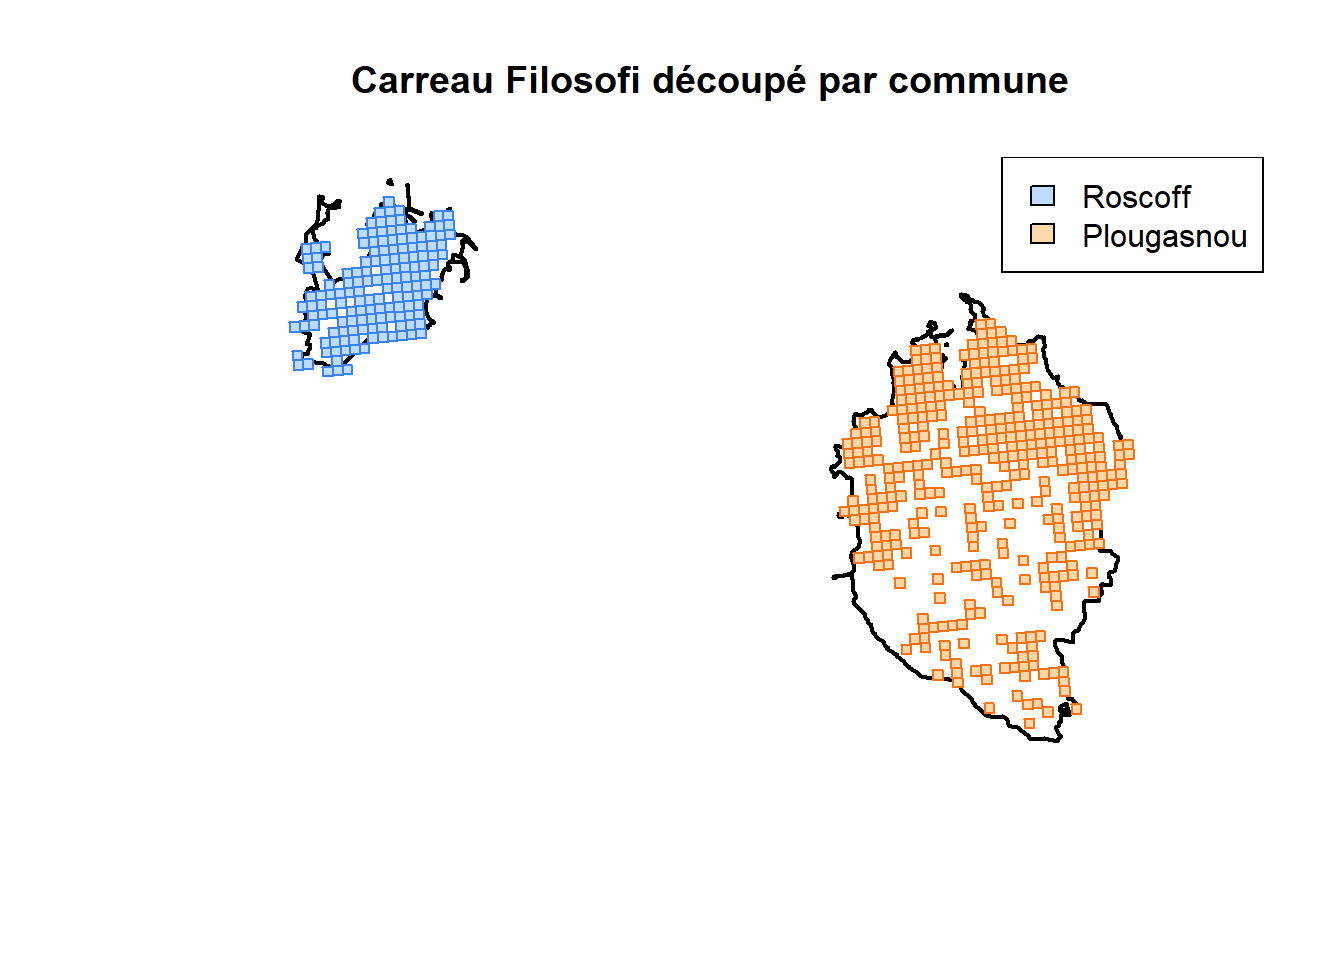
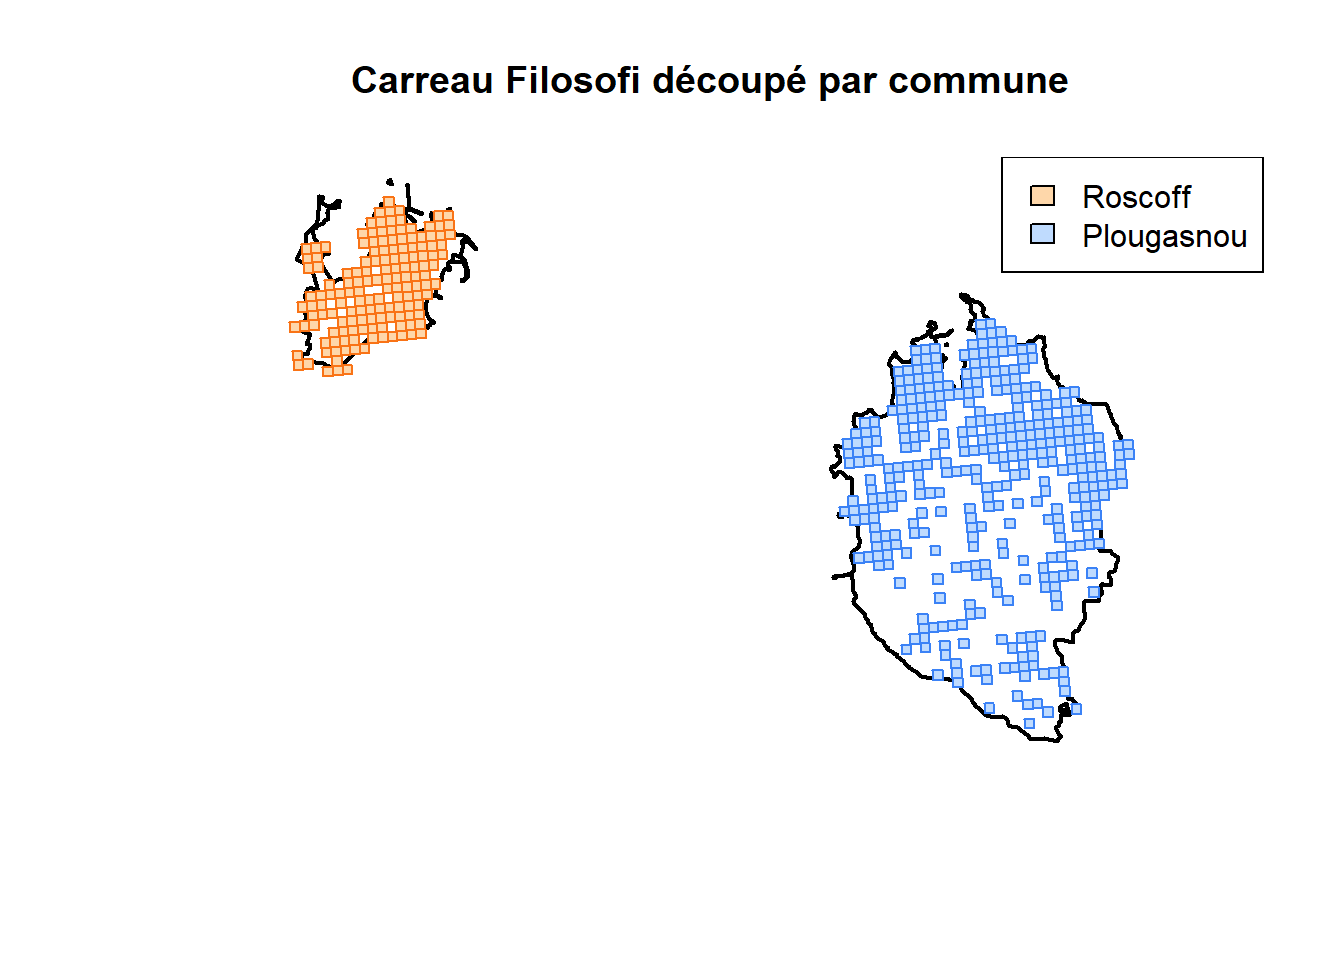
correction couleurs communes

Changed region(s): [[0.625, 0.3125, 0.8438, 0.75], [0.2188, 0.1875, 0.3438, 0.4062], [0.75, 0.1875, 0.7812, 0.25]]

diff --git a/docs/zones.html b/docs/zones.html
@@ -343,42 +343,34 @@ class="section level2">
 <div id="a.-téléchargement-des-limites-administratives"
 class="section level2">
 <h2>A. Téléchargement des limites administratives</h2>
-<pre class="r"><code># Créer un point centré sur la Baie de Morlaix
-point &lt;- st_sfc(st_point(c(-3.85, 48.65)), crs = 4326)
+<pre class="r"><code>point &lt;- st_sfc(st_point(c(-3.85, 48.65)), crs = 4326)
 zone &lt;- st_buffer(st_transform(point, 2154), 15000)
 
-# Téléchargement des communes
 communes &lt;- get_wfs(x = zone,
                     layer = &quot;ADMINEXPRESS-COG-CARTO.LATEST:commune&quot;)
 
-# Filtrage sur Roscoff et Plougasnou
 zone_etude &lt;- communes[communes$nom_officiel %in% c(&quot;Roscoff&quot;, &quot;Plougasnou&quot;), ]
 
-# Affichage
 plot(st_geometry(zone_etude), 
-     col = c(&quot;#2196F3&quot;, &quot;#FF9800&quot;),
+     col = c(&quot;#FF9800&quot;, &quot;#2196F3&quot;),
      main = &quot;Zone d&#39;étude : Roscoff et Plougasnou&quot;)
 legend(&quot;topright&quot;, legend = c(&quot;Roscoff&quot;, &quot;Plougasnou&quot;),
-       fill = c(&quot;#2196F3&quot;, &quot;#FF9800&quot;))</code></pre>
+       fill = c(&quot;#FF9800&quot;, &quot;#2196F3&quot;))</code></pre>
 <p><img src="zones_files/figure-html/communes-1.png" alt="" width="672" /></p>
 </div>
 <div id="b.-téléchargement-du-carreau-filosofi-insee"
 class="section level2">
 <h2>B. Téléchargement du carreau Filosofi (INSEE)</h2>
-<pre class="r"><code># Chargement depuis Documents
-grille &lt;- st_read(&quot;C:/Users/damie/Documents/carreaux_200m_met.gpkg&quot;, quiet = TRUE)
+<pre class="r"><code>grille &lt;- st_read(&quot;C:/Users/damie/Documents/carreaux_200m_met.gpkg&quot;, quiet = TRUE)
 
-# Reprojection en Lambert-93
 grille_proj &lt;- st_transform(grille, 2154)
 zone_etude_proj &lt;- st_transform(zone_etude, 2154)
 
-# Filtrage sur la zone d&#39;étude
 idx &lt;- st_intersects(grille_proj, st_union(zone_etude_proj), sparse = FALSE)[,1]
 grille_zone &lt;- grille_proj[idx, ]
 
-# Affichage du carreau par dessus les communes
 plot(st_geometry(zone_etude_proj), 
-     col = c(&quot;#2196F3&quot;, &quot;#FF9800&quot;),
+     col = c(&quot;#FF9800&quot;, &quot;#2196F3&quot;),
      main = &quot;Carreau Filosofi 200m — Roscoff et Plougasnou&quot;)
 plot(st_geometry(grille_zone), 
      col = &quot;#eef2ff88&quot;, border = &quot;#818cf8&quot;, 
@@ -390,28 +382,26 @@ plot(st_geometry(zone_etude_proj),
 </div>
 <div id="c.-jointure-spatiale-sur-les-communes" class="section level2">
 <h2>C. Jointure spatiale sur les communes</h2>
-<pre class="r"><code># Jointure spatiale
-grille_communes &lt;- st_join(grille_zone, zone_etude_proj[&quot;nom_officiel&quot;])
+<pre class="r"><code>grille_communes &lt;- st_join(grille_zone, zone_etude_proj[&quot;nom_officiel&quot;])
 
-# Affichage par commune
 plot(st_geometry(zone_etude_proj), 
      col = NA, border = &quot;black&quot;, lwd = 2,
      main = &quot;Carreau Filosofi découpé par commune&quot;)
 plot(st_geometry(grille_communes[!is.na(grille_communes$nom_officiel) &amp; 
                                   grille_communes$nom_officiel == &quot;Roscoff&quot;, ]),
-     col = &quot;#bfdbfe&quot;, border = &quot;#3b82f6&quot;, add = TRUE)
+     col = &quot;#fed7aa&quot;, border = &quot;#f97316&quot;, add = TRUE)
 plot(st_geometry(grille_communes[!is.na(grille_communes$nom_officiel) &amp; 
                                   grille_communes$nom_officiel == &quot;Plougasnou&quot;, ]),
-     col = &quot;#fed7aa&quot;, border = &quot;#f97316&quot;, add = TRUE)
+     col = &quot;#bfdbfe&quot;, border = &quot;#3b82f6&quot;, add = TRUE)
 legend(&quot;topright&quot;, 
        legend = c(&quot;Roscoff&quot;, &quot;Plougasnou&quot;),
-       fill = c(&quot;#bfdbfe&quot;, &quot;#fed7aa&quot;))</code></pre>
+       fill = c(&quot;#fed7aa&quot;, &quot;#bfdbfe&quot;))</code></pre>
 <p><img src="zones_files/figure-html/jointure-1.png" alt="" width="672" /></p>
 </div>
 <div id="d.-schéma-du-géotraitement" class="section level2">
 <h2>D. Schéma du géotraitement</h2>
-<div class="grViz html-widget html-fill-item" id="htmlwidget-150ff377aeb9d436c3b0" style="width:672px;height:480px;"></div>
-<script type="application/json" data-for="htmlwidget-150ff377aeb9d436c3b0">{"x":{"diagram":"\ndigraph geotraitement {\n  graph [layout = dot, rankdir = TB, fontname = \"Helvetica\"]\n  node [fontname = \"Helvetica\", fontsize = 11]\n\n  Start [label = \"Analyse Géotraitement\nPlougasnou vs Roscoff\", shape = oval, style = filled, fillcolor = \"#fdf4ff\", color = \"#e879f9\"]\n  BranchA [label = \"Branche A:\nAnalyse Physique\", shape = rectangle, style = filled, fillcolor = \"#f8fafc\", color = \"#94a3b8\"]\n  BranchB [label = \"Branche B:\nAnalyse Socio-Économique\", shape = rectangle, style = filled, fillcolor = \"#f8fafc\", color = \"#94a3b8\"]\n  InputA1 [label = \"INPUT Raster:\nMNT RGE Alti\nvia happign\", shape = rectangle, style = filled, fillcolor = \"#eef2ff\", color = \"#818cf8\"]\n  InputA2 [label = \"INPUT Vecteur:\nEmplacement Éoliennes\nPoints\", shape = rectangle, style = filled, fillcolor = \"#eef2ff\", color = \"#818cf8\"]\n  TraitA [label = \"TRAITEMENT terra:\nCalcul Viewshed\nBassin de visibilité\", shape = rectangle, style = filled, fillcolor = \"#f0fdfa\", color = \"#2dd4bf\"]\n  OutputA [label = \"OUTPUT:\nRaster Visibilité\nPixel: 1=vu, 0=non-vu\", shape = rectangle, style = filled, fillcolor = \"#f5f3ff\", color = \"#a78bfa\"]\n  InputB1 [label = \"INPUT Vecteur:\nCarroyage Filosofi 200m\nINSEE\", shape = rectangle, style = filled, fillcolor = \"#eef2ff\", color = \"#818cf8\"]\n  InputB2 [label = \"INPUT Vecteur:\nLimites Communales\nvia happign\", shape = rectangle, style = filled, fillcolor = \"#eef2ff\", color = \"#818cf8\"]\n  TraitB1 [label = \"TRAITEMENT sf:\nDécoupage\nst_intersection\", shape = rectangle, style = filled, fillcolor = \"#f0fdfa\", color = \"#2dd4bf\"]\n  TraitB2 [label = \"Jointure Attributaire\nleft_join\nRevenus + Résidences sec.\", shape = rectangle, style = filled, fillcolor = \"#f0fdfa\", color = \"#2dd4bf\"]\n  OutputB [label = \"OUTPUT:\nCarroyage Enrichi\nDonnées Socio-Éco\", shape = rectangle, style = filled, fillcolor = \"#f5f3ff\", color = \"#a78bfa\"]\n  Convergence [label = \"Convergence:\nSynthèse Spatiale\", shape = rectangle, style = filled, fillcolor = \"#fff7ed\", color = \"#fb923c\"]\n  Cross [label = \"CROISEMENT:\nSuperposition\nRaster Visibilité +\nCarroyage Enrichi\", shape = rectangle, style = filled, fillcolor = \"#fff7ed\", color = \"#fb923c\"]\n  Final [label = \"RÉSULTAT FINAL:\nCarte Synthétique\nVisibilité + Résidences sec.\n+ Revenus\", shape = oval, style = filled, fillcolor = \"#fdf4ff\", color = \"#e879f9\"]\n\n  Start -> BranchA\n  Start -> BranchB\n  BranchA -> InputA1\n  BranchA -> InputA2\n  InputA1 -> TraitA\n  InputA2 -> TraitA\n  TraitA -> OutputA\n  BranchB -> InputB1\n  BranchB -> InputB2\n  InputB1 -> TraitB1\n  InputB2 -> TraitB1\n  TraitB1 -> TraitB2\n  TraitB2 -> OutputB\n  OutputA -> Convergence\n  OutputB -> Convergence\n  Convergence -> Cross\n  Cross -> Final\n}\n","config":{"engine":"dot","options":null}},"evals":[],"jsHooks":[]}</script>
+<div class="grViz html-widget html-fill-item" id="htmlwidget-c061f07959d1a60a5d06" style="width:672px;height:480px;"></div>
+<script type="application/json" data-for="htmlwidget-c061f07959d1a60a5d06">{"x":{"diagram":"\ndigraph geotraitement {\n  graph [layout = dot, rankdir = TB, fontname = \"Helvetica\"]\n  node [fontname = \"Helvetica\", fontsize = 11]\n\n  Start [label = \"Analyse Géotraitement\nPlougasnou vs Roscoff\", shape = oval, style = filled, fillcolor = \"#fdf4ff\", color = \"#e879f9\"]\n  BranchA [label = \"Branche A:\nAnalyse Physique\", shape = rectangle, style = filled, fillcolor = \"#f8fafc\", color = \"#94a3b8\"]\n  BranchB [label = \"Branche B:\nAnalyse Socio-Économique\", shape = rectangle, style = filled, fillcolor = \"#f8fafc\", color = \"#94a3b8\"]\n  InputA1 [label = \"INPUT Raster:\nMNT RGE Alti\nvia happign\", shape = rectangle, style = filled, fillcolor = \"#eef2ff\", color = \"#818cf8\"]\n  InputA2 [label = \"INPUT Vecteur:\nEmplacement Éoliennes\nPoints\", shape = rectangle, style = filled, fillcolor = \"#eef2ff\", color = \"#818cf8\"]\n  TraitA [label = \"TRAITEMENT terra:\nCalcul Viewshed\nBassin de visibilité\", shape = rectangle, style = filled, fillcolor = \"#f0fdfa\", color = \"#2dd4bf\"]\n  OutputA [label = \"OUTPUT:\nRaster Visibilité\nPixel: 1=vu, 0=non-vu\", shape = rectangle, style = filled, fillcolor = \"#f5f3ff\", color = \"#a78bfa\"]\n  InputB1 [label = \"INPUT Vecteur:\nCarroyage Filosofi 200m\nINSEE\", shape = rectangle, style = filled, fillcolor = \"#eef2ff\", color = \"#818cf8\"]\n  InputB2 [label = \"INPUT Vecteur:\nLimites Communales\nvia happign\", shape = rectangle, style = filled, fillcolor = \"#eef2ff\", color = \"#818cf8\"]\n  TraitB1 [label = \"TRAITEMENT sf:\nDécoupage\nst_intersection\", shape = rectangle, style = filled, fillcolor = \"#f0fdfa\", color = \"#2dd4bf\"]\n  TraitB2 [label = \"Jointure Attributaire\nleft_join\nRevenus + Résidences sec.\", shape = rectangle, style = filled, fillcolor = \"#f0fdfa\", color = \"#2dd4bf\"]\n  OutputB [label = \"OUTPUT:\nCarroyage Enrichi\nDonnées Socio-Éco\", shape = rectangle, style = filled, fillcolor = \"#f5f3ff\", color = \"#a78bfa\"]\n  Convergence [label = \"Convergence:\nSynthèse Spatiale\", shape = rectangle, style = filled, fillcolor = \"#fff7ed\", color = \"#fb923c\"]\n  Cross [label = \"CROISEMENT:\nSuperposition\nRaster Visibilité +\nCarroyage Enrichi\", shape = rectangle, style = filled, fillcolor = \"#fff7ed\", color = \"#fb923c\"]\n  Final [label = \"RÉSULTAT FINAL:\nCarte Synthétique\nVisibilité + Résidences sec.\n+ Revenus\", shape = oval, style = filled, fillcolor = \"#fdf4ff\", color = \"#e879f9\"]\n\n  Start -> BranchA\n  Start -> BranchB\n  BranchA -> InputA1\n  BranchA -> InputA2\n  InputA1 -> TraitA\n  InputA2 -> TraitA\n  TraitA -> OutputA\n  BranchB -> InputB1\n  BranchB -> InputB2\n  InputB1 -> TraitB1\n  InputB2 -> TraitB1\n  TraitB1 -> TraitB2\n  TraitB2 -> OutputB\n  OutputA -> Convergence\n  OutputB -> Convergence\n  Convergence -> Cross\n  Cross -> Final\n}\n","config":{"engine":"dot","options":null}},"evals":[],"jsHooks":[]}</script>
 </div>
 <div id="e.-le-format-geopackage-.gpkg" class="section level2">
 <h2>E. Le format GeoPackage (.gpkg)</h2>

diff --git a/docs/analyse.html b/docs/analyse.html
@@ -275,8 +275,8 @@ $(document).ready(function () {
 </div>
 
 
-<div id="lanalyse-de-lintervisibilité" class="section level2">
-<h2>L’Analyse de l’intervisibilité</h2>
+<div id="analyse-de-lintervisibilité" class="section level2">
+<h2>Analyse de l’intervisibilité</h2>
 <p>Dans notre analyse, le <strong>MNT</strong> a permis de prouver une
 différence majeure entre les deux communes.</p>
 <p>Même si la distance à la côte est la même, la topographie diffère :
@@ -304,6 +304,7 @@ mnt &lt;- get_wms_raster(x = zone,
                       layer = &quot;ELEVATION.ELEVATIONGRIDCOVERAGE.HIGHRES&quot;,
                       res = 25,
                       crs = 2154)</code></pre>
+<pre><code>## 0</code></pre>
 <pre><code>## ...10...20...30...40...50...60...70...80...90...100 - done.</code></pre>
 <pre class="r"><code>communes &lt;- get_wfs(x = zone,
                     layer = &quot;ADMINEXPRESS-COG-CARTO.LATEST:commune&quot;)